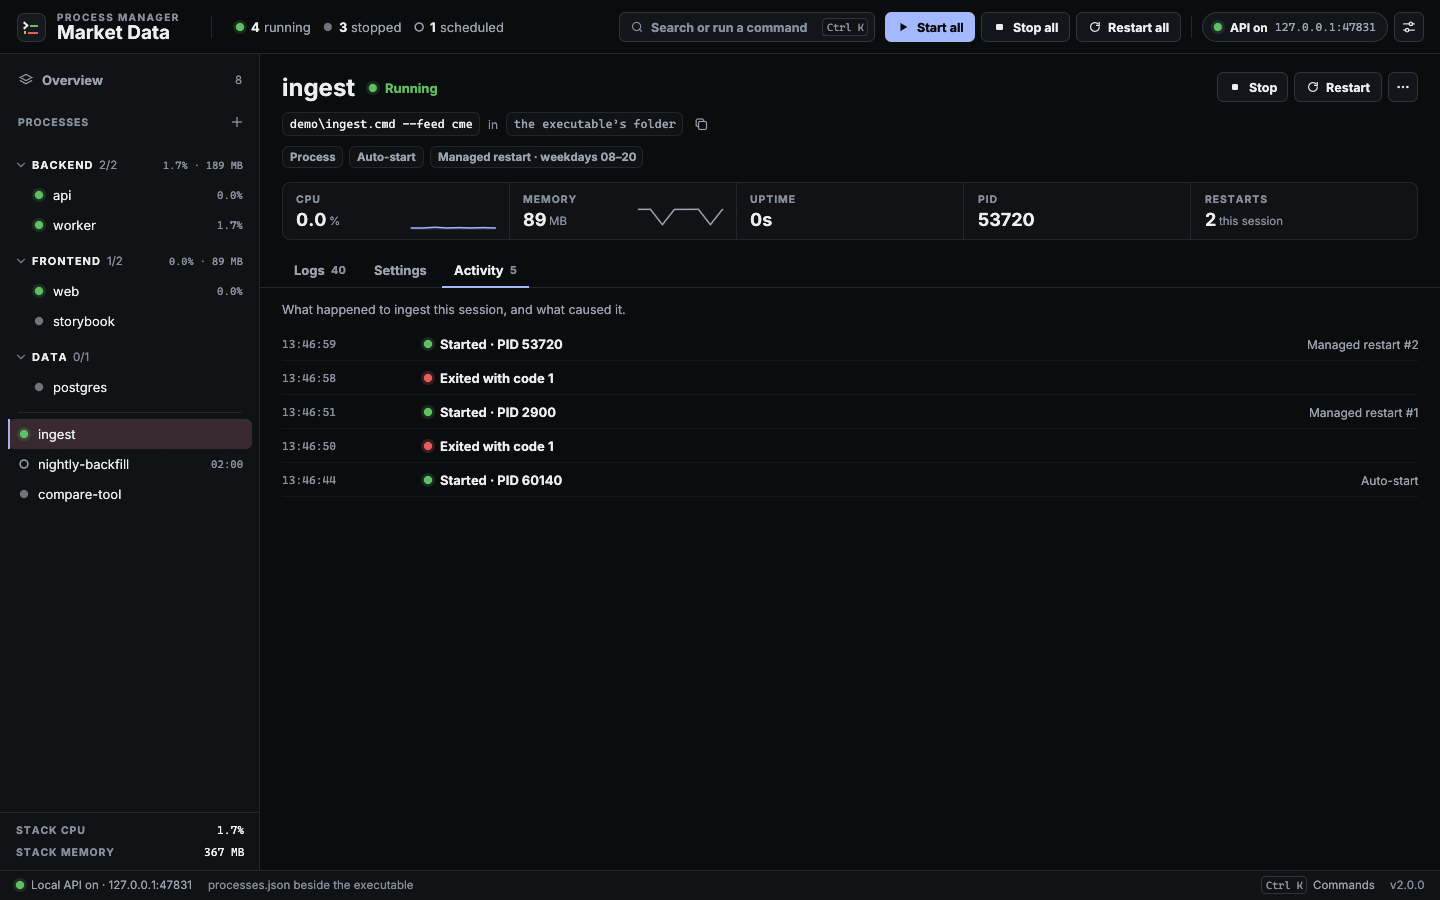
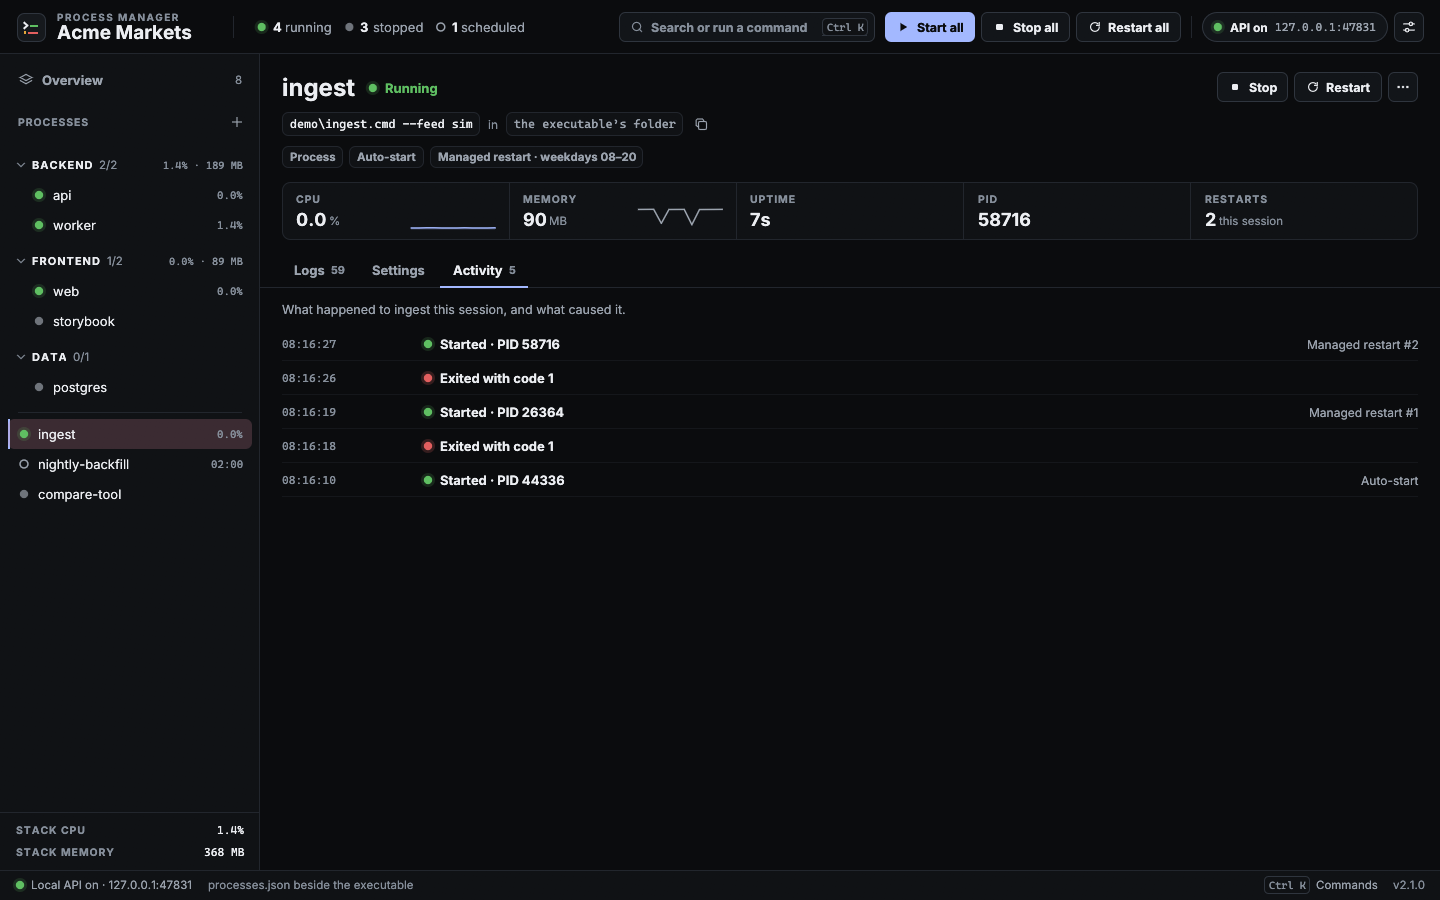
Retake the README screenshots on a made-up demo stack, add a TUI GIF
The demo stack is Acme Markets now, with no paths or names from real services. The README
gains the Screen tab GIF, a terminal line under Why Use It, and what the release ZIPs hold.

diff --git a/README.md b/README.md
@@ -16,6 +16,7 @@ It is built for the annoying real-world cases:
 
 - Start your full local stack from one window instead of juggling terminals.
 - Watch live, searchable output for any process, with errors and warnings picked out.
+- Run tools that want a real terminal: Rich and coloured output, progress bars, and full-screen TUIs you can type into.
 - See the whole stack at once: what runs, what crashed, what it costs in CPU and memory.
 - Restart unstable services automatically with managed restart and optional active hours.
 - Start dormant services from simple per-process schedules.
@@ -51,6 +52,10 @@ Tools with rich output (Python's Rich, progress bars from pip, cargo or npm, col
 ![Terminal output](images/terminal.png)
 
 The Screen tab draws the program's screen. Click it to type: keys, paste and the mouse go to the program, and the window's shortcuts wait until you click outside the screen. **Ctrl C** interrupts it, **Copy screen** copies its text. A terminal process's lines still reach the log (rows that scroll by, or have been still for a moment, are written to disk and checked for errors); what a full-screen program draws does not. New terminals start at the size of the log area (at least 100 × 24); full-screen programs follow the Screen tab's size.
+
+A ratatui dashboard running under **Terminal (auto)**, live on its Screen tab:
+
+![A TUI on the Screen tab](images/tui.gif)
 
 ### Overview
 
@@ -143,7 +148,9 @@ Output binary:
 
 ### Prebuilt Binaries
 
-See the [Releases](https://github.com/EnviralDesign/simple-rust-process-manager/releases) page.
+See the [Releases](https://github.com/EnviralDesign/simple-rust-process-manager/releases) page: a ZIP for Windows x64 (the `.exe`) and one for macOS (`Process Manager.app`). Unzip it next to a `processes.json`, or anywhere and let it create one.
+
+The macOS app has an ad-hoc signature, not a Developer ID, so Gatekeeper stops the first launch: right-click the app and choose **Open**, or run `xattr -dr com.apple.quarantine "Process Manager.app"` once.
 
 ## macOS
 
@@ -395,6 +402,8 @@ cargo build --release
 ./scripts/run-demo.ps1
 ./scripts/run-demo.ps1 -Screenshot images/overview.png -Window 1440x900 -Open overview -After 12
 ```
+
+Everything in the demo (the Acme Markets stack, its paths and its log lines) is made up. The app icon is drawn by `scripts/render-icon.py` (`uv run --with pillow python scripts/render-icon.py`) from the same mark the header paints.
 
 See `AGENTS.md` for how the code is laid out, the UI kit's rules and how releases are versioned.
 
